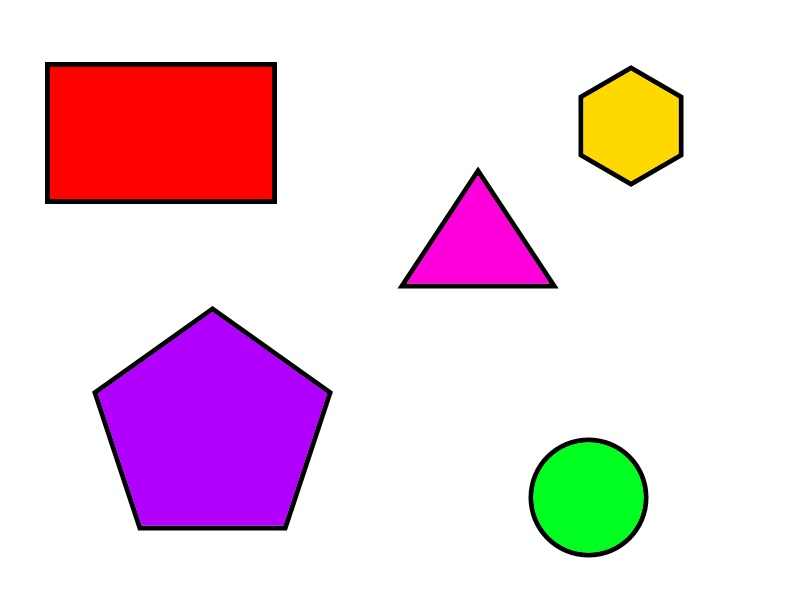
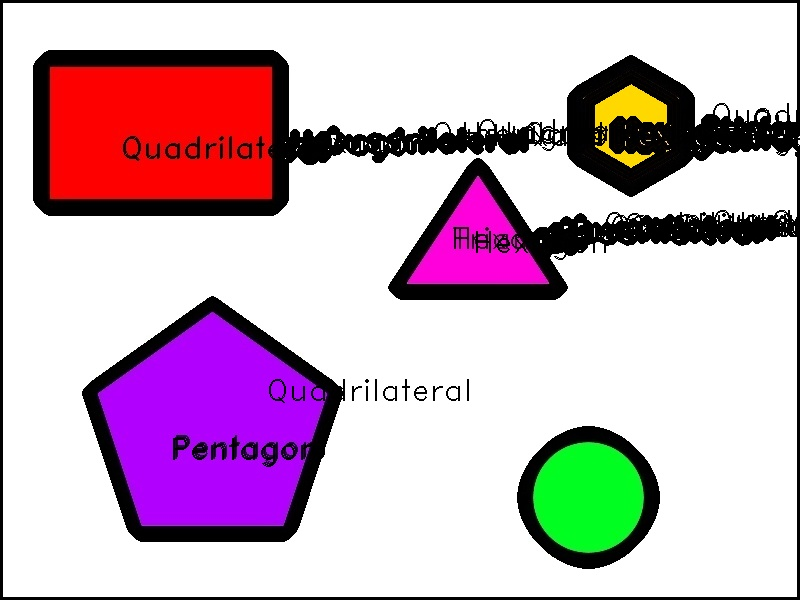
fix select image

Changed region(s): [[0.0, 0.0, 1.0, 1.0], [0.0938, 0.48, 0.5938, 0.93], [0.625, 0.69, 0.8438, 0.96]]

diff --git a/ubec/src/main.py b/ubec/src/main.py
@@ -1,0 +1,126 @@
+from shape_detect import select_and_run
+import flet as ft
+import os
+
+
+def main(page):
+    files = ft.Ref[ft.Column]()
+    upload_button = ft.Ref[ft.ElevatedButton]()
+
+    page.adaptive = True
+
+    page.appbar = ft.AppBar(
+        leading=ft.TextButton("New", style=ft.ButtonStyle(padding=0)),
+        title=ft.Text("Lol"),
+        actions=[
+            ft.IconButton(ft.cupertino_icons.ADD, style=ft.ButtonStyle(padding=0))
+        ],
+        bgcolor=ft.Colors.with_opacity(0.04, ft.CupertinoColors.SYSTEM_BACKGROUND),
+    )
+
+    page.navigation_bar = ft.NavigationBar(
+        destinations=[
+            ft.NavigationBarDestination(icon=ft.Icons.IMAGE_OUTLINED, label="Upload Image"),
+            # ft.NavigationBarDestination(
+            #    icon=ft.Icons.BOOKMARK_BORDER,
+            #    selected_icon=ft.Icons.BOOKMARK,
+            #    label="Bookmark",
+            #),
+        ],
+        border=ft.Border(
+            top=ft.BorderSide(color=ft.CupertinoColors.SYSTEM_GREY2, width=0)
+        ),
+    )
+
+    # def upload_files(e):
+    #     if file_picker.result and file_picker.result.files:
+    #         os.makedirs("uploads", exist_ok=True)
+    #         for f in file_picker.result.files:
+    #             save_path = os.path.join("uploads", f.name)  # Automatically handles slashes
+    #             with open(f.path, "rb") as src, open(save_path, "wb") as dest:
+    #                 dest.write(src.read())  # Read and write file manually
+    #         file_picker.result.files.clear()
+    #     page.update()
+
+    # def file_picker_result(e: ft.FilePickerResultEvent):
+    #     upload_button.current.disabled = True if e.files is None else False
+    #     prog_bars.clear()
+    #     files.current.controls.clear()
+    #     if e.files is not None:
+    #         for f in e.files:
+    #             prog = ft.ProgressRing(value=0, bgcolor="#eeeeee", width=20, height=20)
+    #             prog_bars[f.name] = prog
+    #             files.current.controls.append(ft.Row([prog, ft.Text(f.name)]))
+    #     page.update()
+
+    # def on_upload_progress(e: ft.FilePickerUploadEvent):
+    #     prog_bars[e.file_name].value = e.progress
+    #     prog_bars[e.file_name].update()
+
+    # file_picker = ft.FilePicker(
+    #     on_result=file_picker_result, on_upload=on_upload_progress
+    # )
+
+    # def upload_files(e):
+    #     print("what")
+    #     uf = []
+    #     if file_picker.result is not None and file_picker.result.files is not None:
+    #         for f in file_picker.result.files:
+    #             uf.append(
+    #                 ft.FilePickerUploadFile(
+    #                     f.name,
+    #                     upload_url=page.get_upload_url(f"uploads/{f.name}", 600),
+    #                 )
+    #             )
+    #         file_picker.upload(uf)
+
+    # hide dialog in a overlay
+    # page.overlay.append(file_picker)
+
+    counter = 0
+    def select_callback(e):
+        nonlocal counter
+        counter += 1
+        select_and_run(counter)
+        g.src = f"UNIQoutput{counter}.jpg"
+        page.update()
+    g = ft.Image(src=f"UNIQoutput{counter}.jpg",
+                width=page.width * 0.8,
+                height=page.height * 0.8,
+                expand=True,
+                fit=ft.ImageFit.CONTAIN, 
+                )
+    page.add(
+        ft.SafeArea(
+            ft.Stack(
+            [ft.Container(
+                gradient=ft.LinearGradient(
+                        begin=ft.alignment.top_center,
+                        end=ft.alignment.bottom_center,
+                    colors=[ft.Colors.BLUE, ft.Colors.YELLOW],
+                    ),
+                content=ft.Column(
+                    [
+                        # ft.ElevatedButton(
+                        #     "Upload",
+                        #     ref=upload_button,
+                        #     icon=ft.Icons.UPLOAD,
+                        #     on_click=upload_files,
+                        #     disabled=True,
+                        # ),
+                    ], alignment=ft.MainAxisAlignment.CENTER
+                ),
+            ),
+            ft.Container(content=g, alignment=ft.alignment.center),
+            ft.ElevatedButton(
+                "Select files...",
+                icon=ft.Icons.FOLDER_OPEN,
+                on_click=select_callback,
+            ),
+            ],
+            )
+        )
+    )
+
+
+ft.app(main, upload_dir="uploads")

diff --git a/ubec/src/shape_detect.py b/ubec/src/shape_detect.py
@@ -1,0 +1,85 @@
+import cv2
+import os
+import numpy as np
+from tkinter import filedialog, Tk
+
+def get_project_root():
+    """Get the absolute path to the project root directory"""
+    current_file = os.path.abspath(__file__)
+    return os.path.dirname(os.path.dirname(current_file))
+
+def load_reference_shapes(folder_path):
+    """Load reference shape contours from black and white images"""
+    reference_shapes = {}
+    for filename in os.listdir(folder_path):
+        if filename.lower().endswith(".png"):
+            label = os.path.splitext(filename)[0]
+            img = cv2.imread(os.path.join(folder_path, filename), cv2.IMREAD_GRAYSCALE)
+            _, thresh = cv2.threshold(img, 127, 255, cv2.THRESH_BINARY)
+            contours, _ = cv2.findContours(thresh, cv2.RETR_EXTERNAL, cv2.CHAIN_APPROX_SIMPLE)
+            if contours:
+                reference_shapes[label] = contours[0]
+            else:
+                print(f"No contour found in {filename}")
+    return reference_shapes
+
+def process_image(image_path, reference_shapes, counter):
+    img = cv2.imread(image_path)
+    gray = cv2.cvtColor(img, cv2.COLOR_BGR2GRAY)
+
+    # Try both normal and inverted thresholds
+    _, thresh_normal = cv2.threshold(gray, 127, 255, cv2.THRESH_BINARY)
+    _, thresh_inv = cv2.threshold(gray, 127, 255, cv2.THRESH_BINARY_INV)
+    
+    # Get contours for both thresholds
+    contours_normal, _ = cv2.findContours(thresh_normal, cv2.RETR_EXTERNAL, cv2.CHAIN_APPROX_SIMPLE)
+    contours_inv, _ = cv2.findContours(thresh_inv, cv2.RETR_EXTERNAL, cv2.CHAIN_APPROX_SIMPLE)
+    
+    # Use whichever threshold found more contours
+    contours = contours_normal if len(contours_normal) > len(contours_inv) else contours_inv
+    
+    # Filter small contours
+    min_area = 200  # Adjust this value based on your image size
+    contours = [cnt for cnt in contours if cv2.contourArea(cnt) > min_area]
+    
+    print(f"Found {len(contours)} potential symbols")
+
+    for cnt in contours:
+        x, y, w, h = cv2.boundingRect(cnt)
+        best_match = None
+        best_score = float('inf')
+
+        for label, ref_cnt in reference_shapes.items():
+            score = cv2.matchShapes(cnt, ref_cnt, cv2.CONTOURS_MATCH_I1, 0.0)
+            if score < best_score:
+                best_score = score
+                best_match = label
+
+        if best_match:
+            cv2.rectangle(img, (x, y), (x+w, y+h), (0, 255, 0), 2)
+            cv2.putText(img, best_match, (x, y - 10), cv2.FONT_HERSHEY_SIMPLEX, 
+                        0.7, (255, 0, 0), 2)
+
+    cv2.imwrite(f"UNIQoutput{counter}.jpg", img)
+    cv2.destroyAllWindows()
+
+def select_and_run(counter):
+    root = Tk()
+    root.wm_attributes('-topmost', 1)
+    root.withdraw()
+    image_path = filedialog.askopenfilename(title="Select an image to analyze")
+    if not image_path:
+        print("No image selected.")
+        return
+
+    # Use fixed path relative to project root
+    shapes_folder = os.path.join(get_project_root(), "src\shapes")
+    if not os.path.exists(shapes_folder):
+        print(f"Error: Shapes folder not found at {shapes_folder}")
+        return
+
+    reference_shapes = load_reference_shapes(shapes_folder)
+    process_image(image_path, reference_shapes, counter)
+
+if __name__ == "__main__":
+    select_and_run(0)
